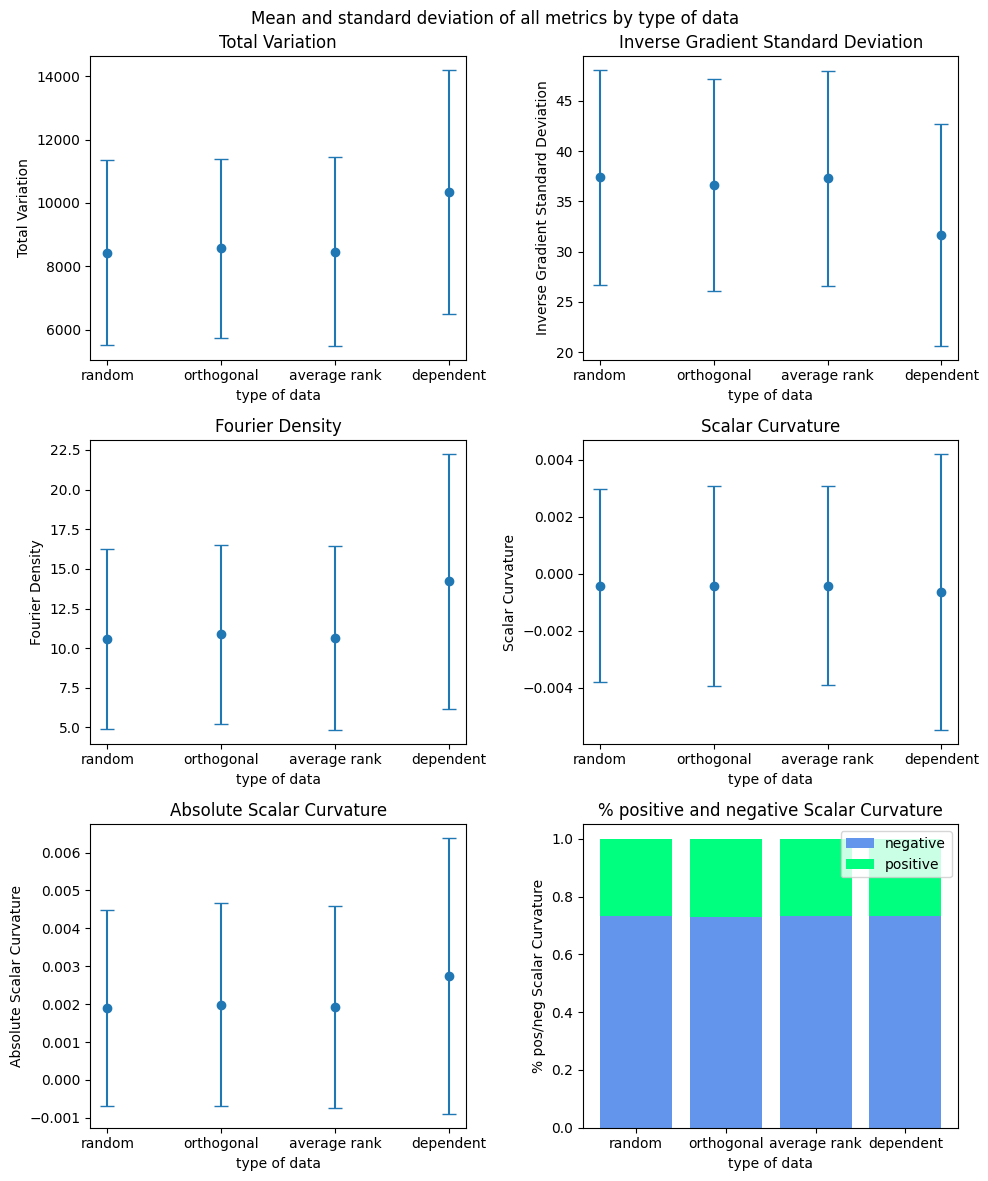
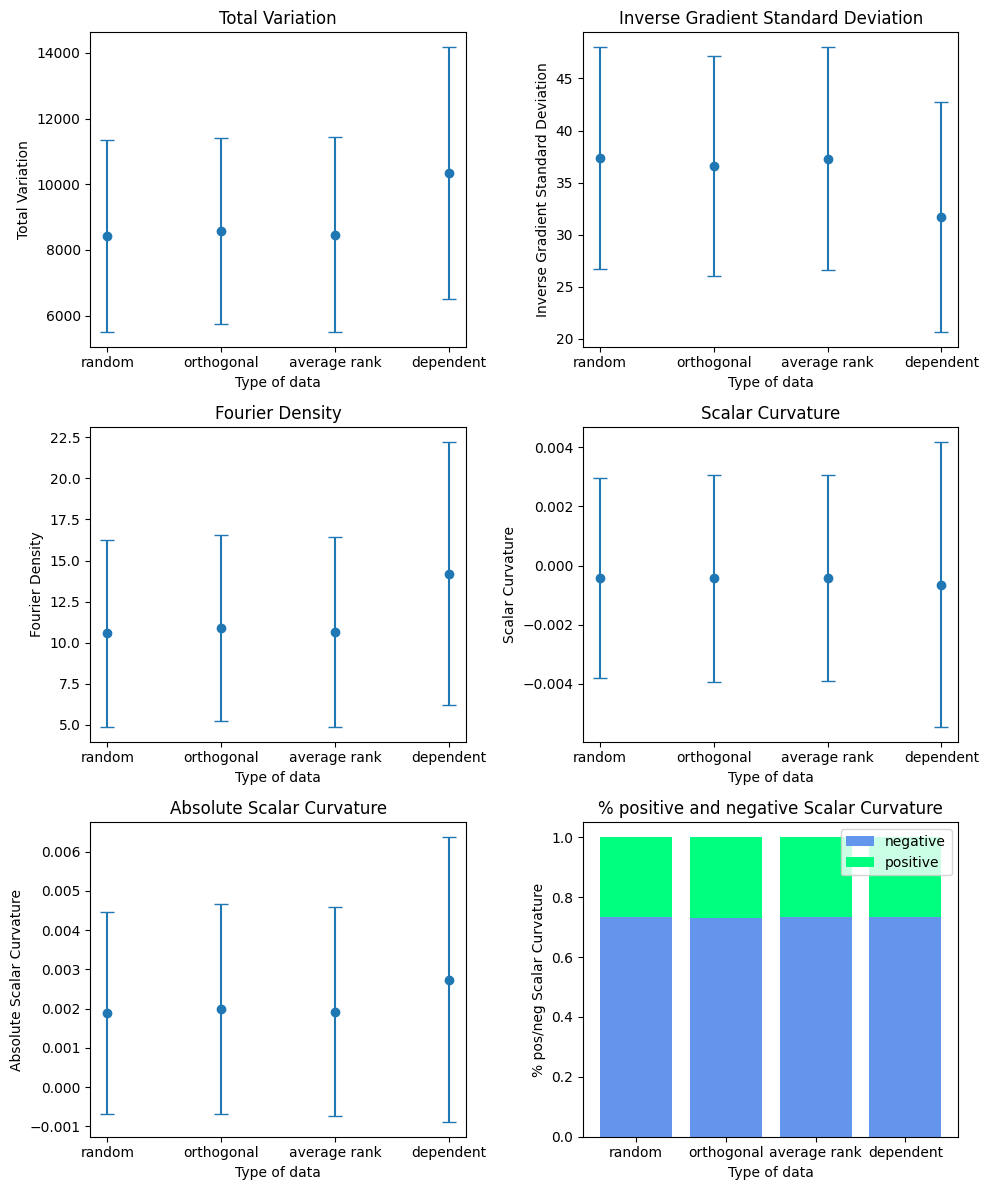
minor changes

diff --git a/Code/entangled_qnn_training-main/victor_thesis_plots.py b/Code/entangled_qnn_training-main/victor_thesis_plots.py
@@ -17,7 +17,7 @@ from victor_thesis_metrics import *
 # from victor_thesis_utils import get_meta_for_mode
 
 
-def plot_results_metric(mean_list, std_list, pos_list, neg_list, y_labels, x_label, title, sample_labels):
+def plot_results_metric(mean_list, std_list, pos_list, neg_list, y_labels, x_label, sample_labels):
     """plots the metrics for multiple results
 
     Args:
@@ -32,7 +32,7 @@ def plot_results_metric(mean_list, std_list, pos_list, neg_list, y_labels, x_lab
     fig, axs = plt.subplots(3,2, figsize=(10,12))
     title_list = ["Total Variation", "Inverse Gradient Standard Deviation","Fourier Density", "Scalar Curvature", "Absolute Scalar Curvature", "% positive and negative Scalar Curvature"]
     #fig().gca().xaxis.set_major_locator(MaxNLocator(integer=True))
-    fig.suptitle(title)
+    #fig.suptitle(title)
     for i in range(3):
         for j in range(2):
             index = 2*i + j
@@ -274,17 +274,17 @@ def plot_3d_loss_landscape(landscape, ansatz, title):
     # set label ticks
     ax.set_xticks(np.arange(len(x_labels)), labels=x_labels)
     ax.set_yticks(np.arange(len(x_labels)), labels=y_labels)
-    ax.set_ylabel("$\\phi$", rotation=180, va="center")
+    ax.set_ylabel("$\\phi$", rotation=-45, va="center")
     ax.set_xlabel("$\\lambda$", rotation=180, va="center")
     ax.set_zlabel("Loss")
     tick_density = int(length / 5)
     # only display every x'th tick
     ax.set_xticks(ax.get_xticks()[::tick_density])
     ax.set_yticks(ax.get_yticks()[::tick_density])
-    plt.setp(ax.get_xticklabels(), rotation=45, ha="right", rotation_mode="anchor")
+    plt.setp(ax.get_xticklabels(), rotation=0, ha="right", rotation_mode="anchor")
     cbar = ax.figure.colorbar(im, ax=ax)
     cbar.ax.set_ylabel("Loss", rotation=-90, va="bottom")
-    ax.set_title(f"{ansatz}($\\phi,\\lambda)$ Approximating {title}")
+    #ax.set_title(f"{ansatz}($\\phi,\\lambda)$ Approximating {title}")
     plt.show()
 
 

diff --git a/Code/entangled_qnn_training-main/victor_thesis_results_processing.py b/Code/entangled_qnn_training-main/victor_thesis_results_processing.py
@@ -210,7 +210,7 @@ def visualize_metrics(combined_results_list, x_label, title, sample_labels = ran
     for res in combined_results_list:
         pos_list.append(res.SC_pos_avg)
         neg_list.append(res.SC_neg_avg)
-    plot_results_metric(combined_mean_list, combined_std_list, pos_list, neg_list, attr_list, x_label, title, sample_labels)
+    plot_results_metric(combined_mean_list, combined_std_list, pos_list, neg_list, attr_list, x_label, sample_labels)
 
 def calculate_deviations(combined_results_list, labels):    
     """calculates the deviation between the uniformly random data results and the other data type results and returns strings with color formatting for latex
